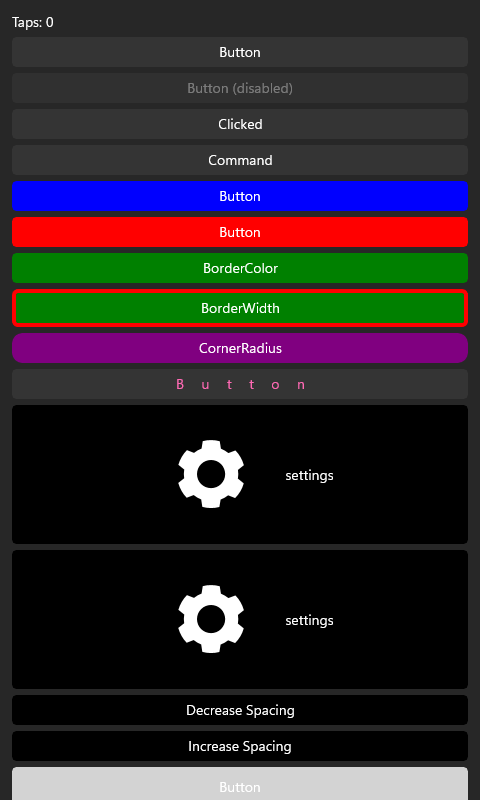
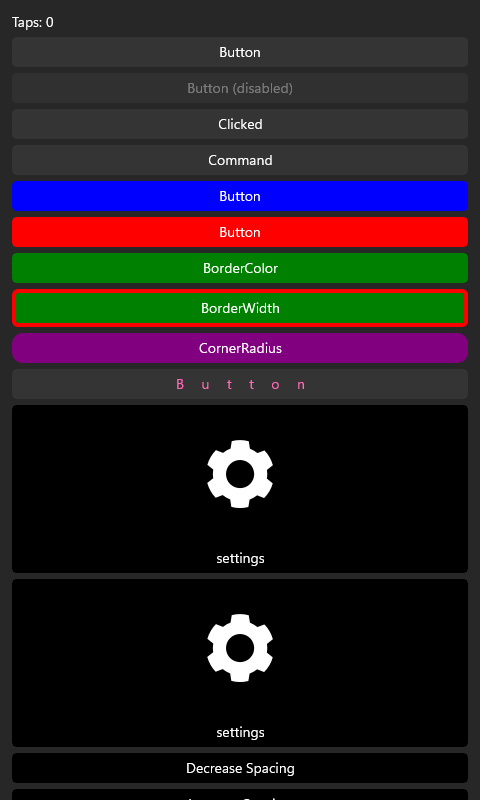
feat(xaml): Button.ContentLayout loader support + apply to button twin
The XAML loader had no ContentLayout property/converter, so the button twin's two icon
buttons defaulted to icon-on-LEFT while maui-compare (and the green cpp twin) set
ContentLayout=ImagePosition.Top,10 (icon on TOP). Additive loader feature:
- register_xaml_extra_converters.cpp: convert_button_content_layout parses the
  ButtonContentTypeConverter form ('Top, 10' / '10, Top' / 'Top' / '8', order-
  independent, both optional) into button_content_layout, registered for that type.
- xaml_standard_types.cpp: register the 'ContentLayout' bindable property on Button.
- button.xaml: add ContentLayout='Top, 10' to the two icon buttons -> icon renders
  above the text, matching MAUI. Additive (only ContentLayout markup is affected; all
  other button markup unchanged).

Changed region(s): [[0.0, 0.5312, 1.0, 1.0], [0.5938, 0.5938, 0.6875, 0.625]]

diff --git a/port/cpp/examples/gallery_xaml/Views/button.xaml b/port/cpp/examples/gallery_xaml/Views/button.xaml
@@ -33,11 +33,13 @@
         <!-- CharacterSpacing = 20 (HotPink text) -->
         <Button Text="Button" TextColor="HotPink" CharacterSpacing="20" />
 
-        <!-- ImageSource icon button (W15: Button.ImageSource); ContentLayout positioning omitted -->
-        <Button Text="settings" TextColor="White" BackgroundColor="Black" ImageSource="settings.png" />
+        <!-- ImageSource icon button (W15: Button.ImageSource) with ContentLayout=Top,10 (icon above text) -->
+        <Button Text="settings" TextColor="White" BackgroundColor="Black" ImageSource="settings.png"
+                ContentLayout="Top, 10" />
 
-        <!-- ContentLayout positioning button (ContentLayout omitted) -->
-        <Button Text="settings" TextColor="White" BackgroundColor="Black" ImageSource="settings.png" />
+        <!-- ContentLayout positioning button (icon above text, spacing 10) -->
+        <Button Text="settings" TextColor="White" BackgroundColor="Black" ImageSource="settings.png"
+                ContentLayout="Top, 10" />
 
         <!-- Decrease spacing (handler omitted) -->
         <Button Text="Decrease Spacing" TextColor="White" BackgroundColor="Black" />

diff --git a/port/cpp/src/xaml/register_xaml_extra_converters.cpp b/port/cpp/src/xaml/register_xaml_extra_converters.cpp
@@ -40,6 +40,7 @@
 #include <string_view>
 #include <vector>
 
+#include "maui/controls/button_content_layout.hpp"
 #include "maui/controls/editor_auto_size_option.hpp"
 #include "maui/controls/flyout_layout_behavior.hpp"
 #include "maui/controls/indicator_shape.hpp"
@@ -214,6 +215,59 @@ namespace maui::xaml
                 {.name = "Square", .value = indicator_shape::square},
             }};
             return parse_enum<indicator_shape>(text, names, "maui::controls::indicator_shape");
+        }
+
+        // Microsoft.Maui.Controls.Button.ButtonContentLayout — the ButtonContentTypeConverter.ConvertFrom
+        // form: a comma-separated pair of an ImagePosition name {Left,Top,Right,Bottom} and a numeric
+        // spacing, in EITHER order, both optional (defaults Left / 10). e.g. "Top, 10", "10, Top", "Top",
+        // "8". Each token is a number (spacing) if it parses as one, else an ImagePosition name.
+        maui::controls::button_content_layout convert_button_content_layout(std::string_view text)
+        {
+            using maui::controls::button_content_layout;
+            using image_position = button_content_layout::image_position;
+            static constexpr std::array<enum_entry<image_position>, 4> names{{
+                {.name = "Left", .value = image_position::left},
+                {.name = "Top", .value = image_position::top},
+                {.name = "Right", .value = image_position::right},
+                {.name = "Bottom", .value = image_position::bottom},
+            }};
+            button_content_layout result; // defaults: {left, DefaultSpacing = 10}
+            bool any = false;
+            std::size_t start = 0;
+            while (true)
+            {
+                const std::size_t comma = text.find(',', start);
+                const std::string_view token = detail::trim(
+                    comma == std::string_view::npos ? text.substr(start) : text.substr(start, comma - start));
+                if (!token.empty())
+                {
+                    double spacing = 0.0;
+                    if (try_parse_number(token, spacing))
+                    {
+                        result.spacing = spacing;
+                        any = true;
+                    }
+                    else if (const auto pos = try_parse_enum<image_position>(token, names))
+                    {
+                        result.position = *pos;
+                        any = true;
+                    }
+                    else
+                    {
+                        throw_cannot_convert_local(text, "maui::controls::button_content_layout");
+                    }
+                }
+                if (comma == std::string_view::npos)
+                {
+                    break;
+                }
+                start = comma + 1;
+            }
+            if (!any)
+            {
+                throw_cannot_convert_local(text, "maui::controls::button_content_layout");
+            }
+            return result;
         }
 
         // ---- shapes group ----
@@ -630,6 +684,9 @@ namespace maui::xaml
             registry_converter(&convert_swipe_transition_mode));
         // maui::controls::indicator_shape  (IndicatorView.IndicatorsShape)
         converters.register_converter<maui::controls::indicator_shape>(registry_converter(&convert_indicator_shape));
+        // maui::controls::button_content_layout  (Button.ContentLayout — icon position + spacing)
+        converters.register_converter<maui::controls::button_content_layout>(
+            registry_converter(&convert_button_content_layout));
 
         // ---- shapes group ----
         // maui::graphics::line_cap  (shape StrokeLineCap)

diff --git a/port/cpp/src/xaml/xaml_standard_types.cpp b/port/cpp/src/xaml/xaml_standard_types.cpp
@@ -182,6 +182,10 @@ namespace maui::xaml
         // uses ImageSource="settings.png" on its icon buttons.
         properties.register_bindable_property<controls::button>("ImageSource",
                                                                 controls::button::image_source_property());
+        // Button.ContentLayout (icon position + spacing) — a string like "Top, 10" routes through
+        // convert_button_content_layout (registered for button_content_layout in register_xaml_extra_converters).
+        properties.register_bindable_property<controls::button>("ContentLayout",
+                                                                controls::button::content_layout_property());
 
         // ---- Label (Label.cs; [ContentProperty(nameof(Text))]) ----
         register_view_properties<controls::label>(properties);
